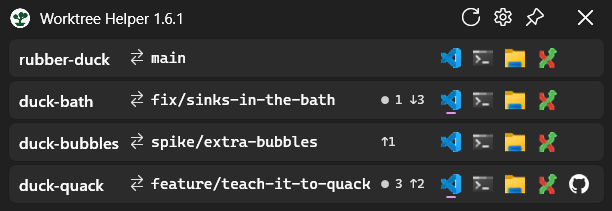
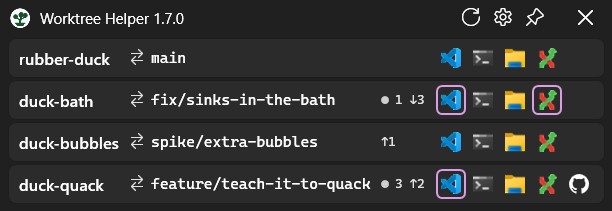
Release 1.7.0
The version goes to 1.7.0, and the changelog gains its section, which is also what the app
shows as what's new.

diff --git a/CHANGELOG.md b/CHANGELOG.md
@@ -1,5 +1,14 @@
 # Changelog
 
+## v1.7.0
+
+- Git Extensions already open on a worktree is brought back rather than opened again.
+- An open window is marked by an accent ring round its button, easier to see than the bar.
+- The app's menu no longer has **Show in taskbar**; Options is where that is chosen.
+- Fixed: the window no longer opens a line too short, cutting off the end of what's new.
+- Fixed: showing the window again no longer resizes it and rebuilds its buttons when nothing
+  has changed.
+
 ## v1.6.2
 
 - Fixed: a refresh no longer leaves a stale `index.lock` behind that blocks git in a worktree.
